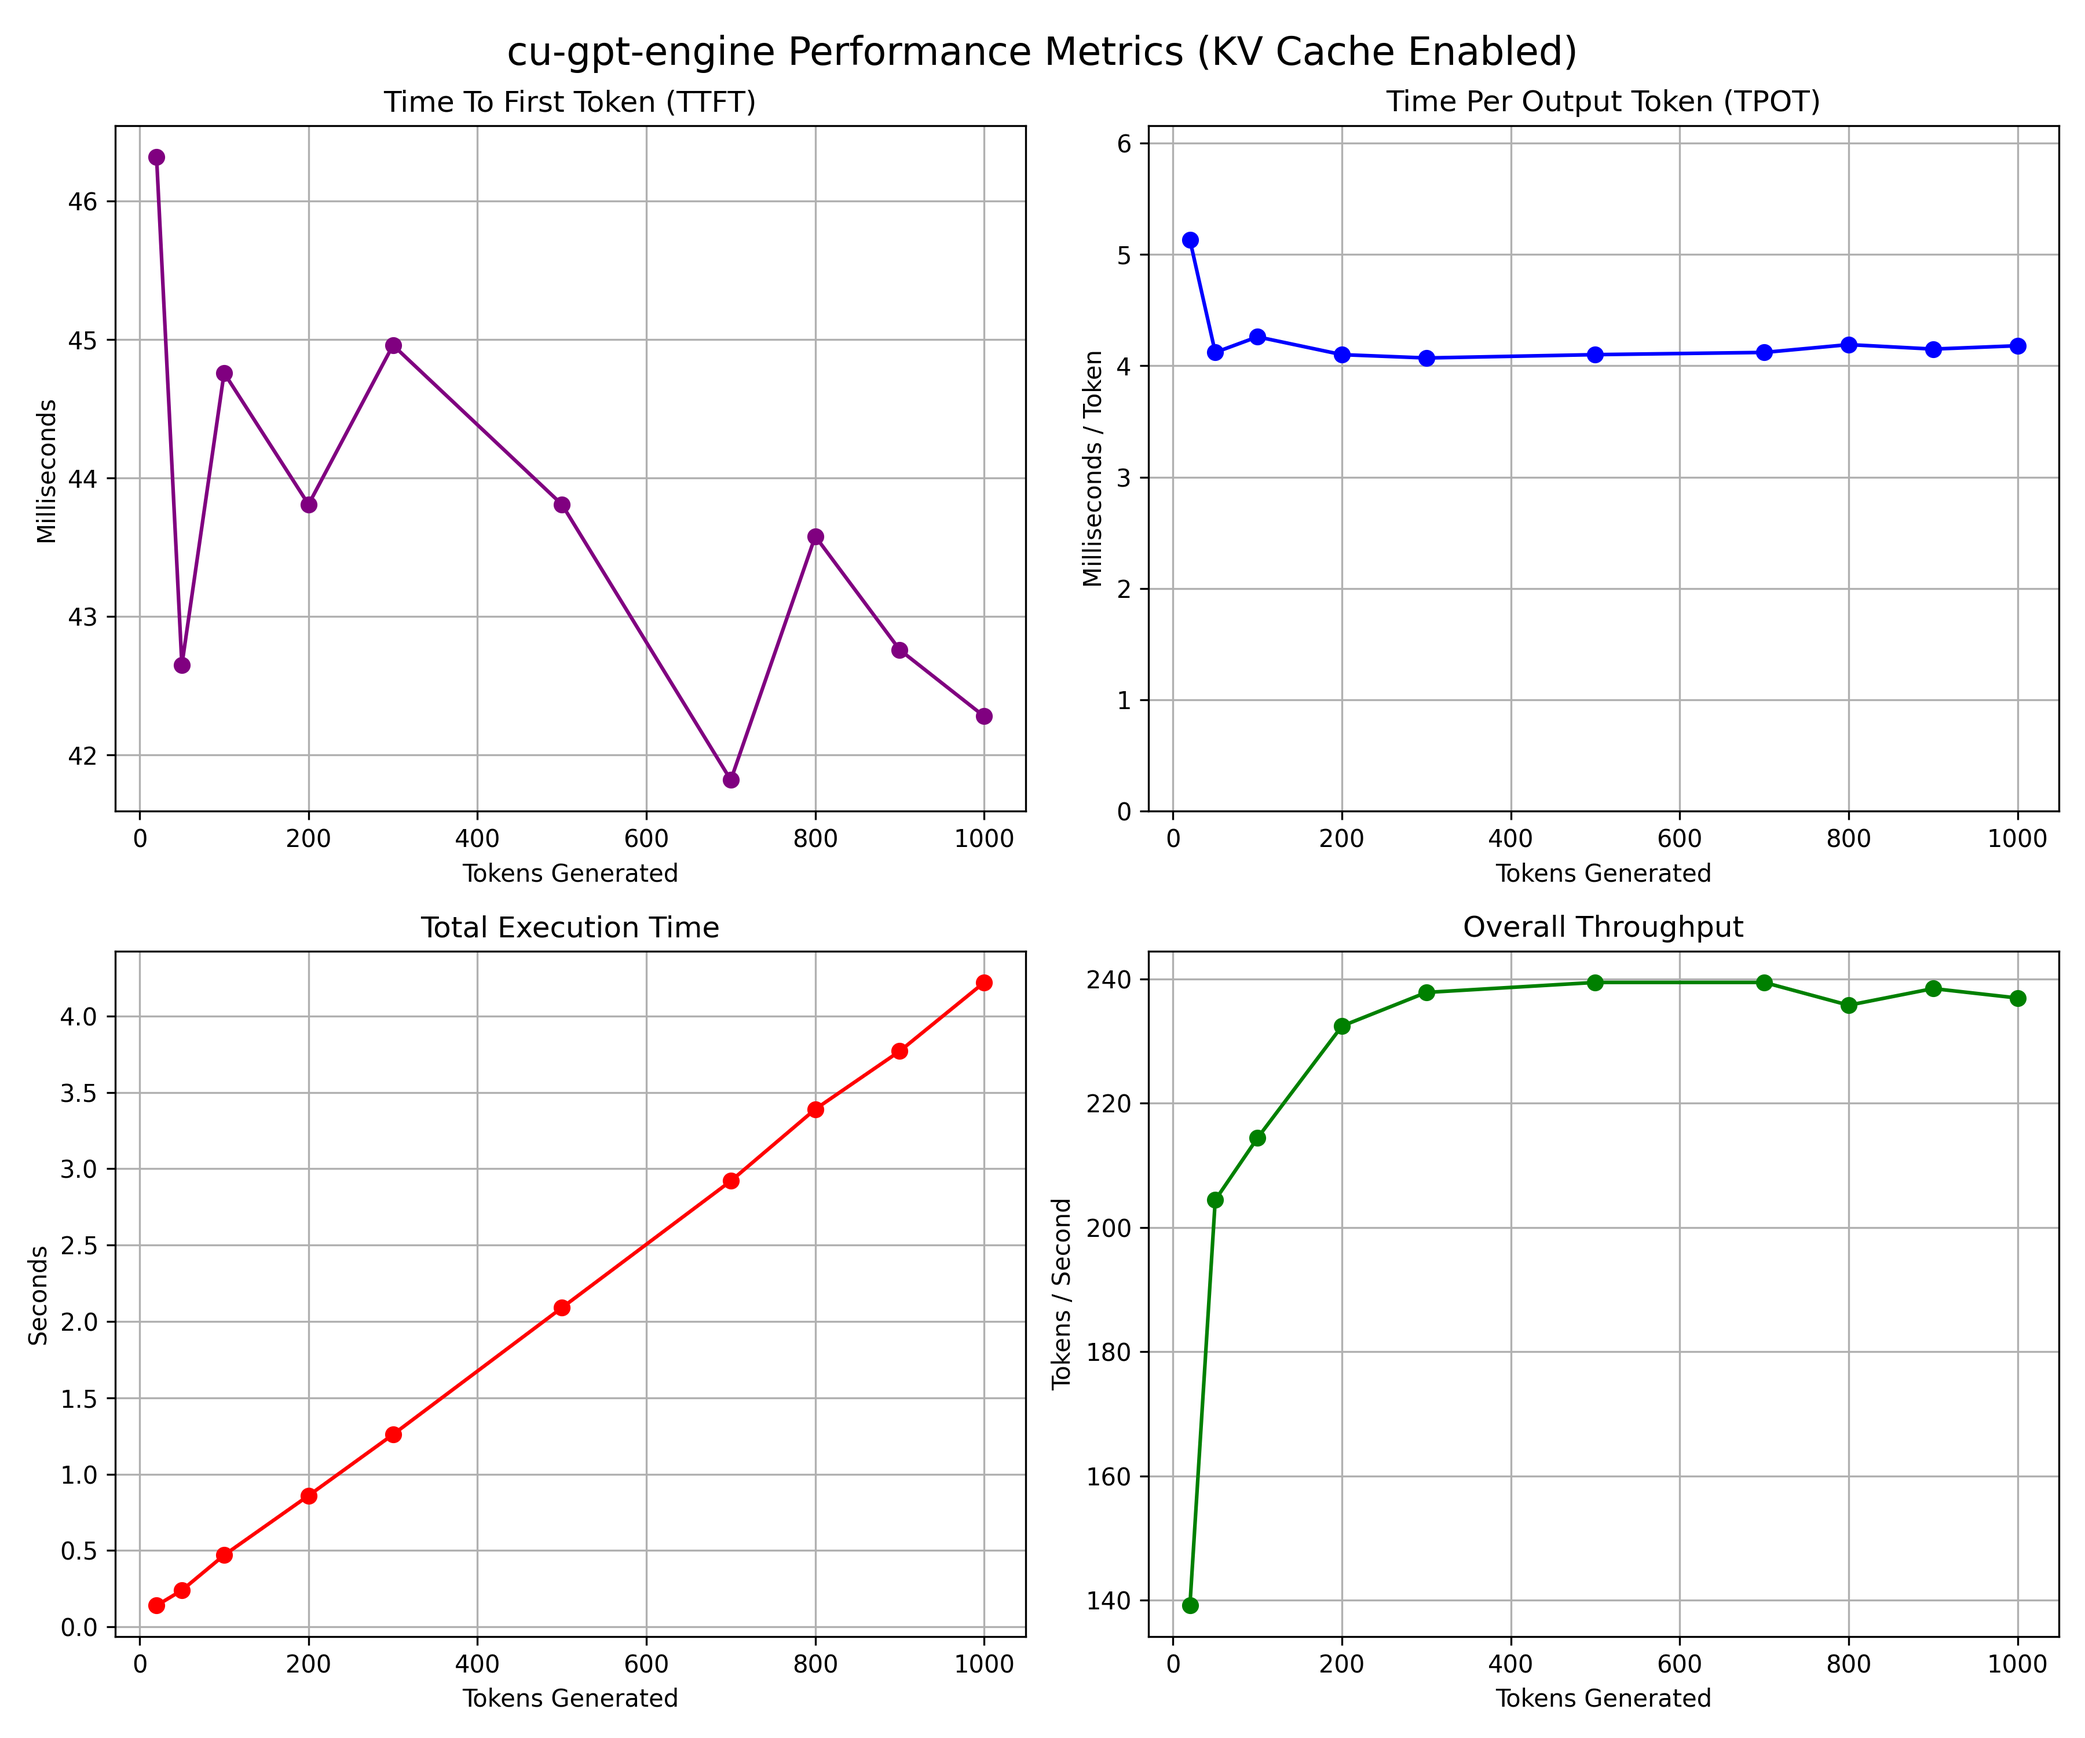
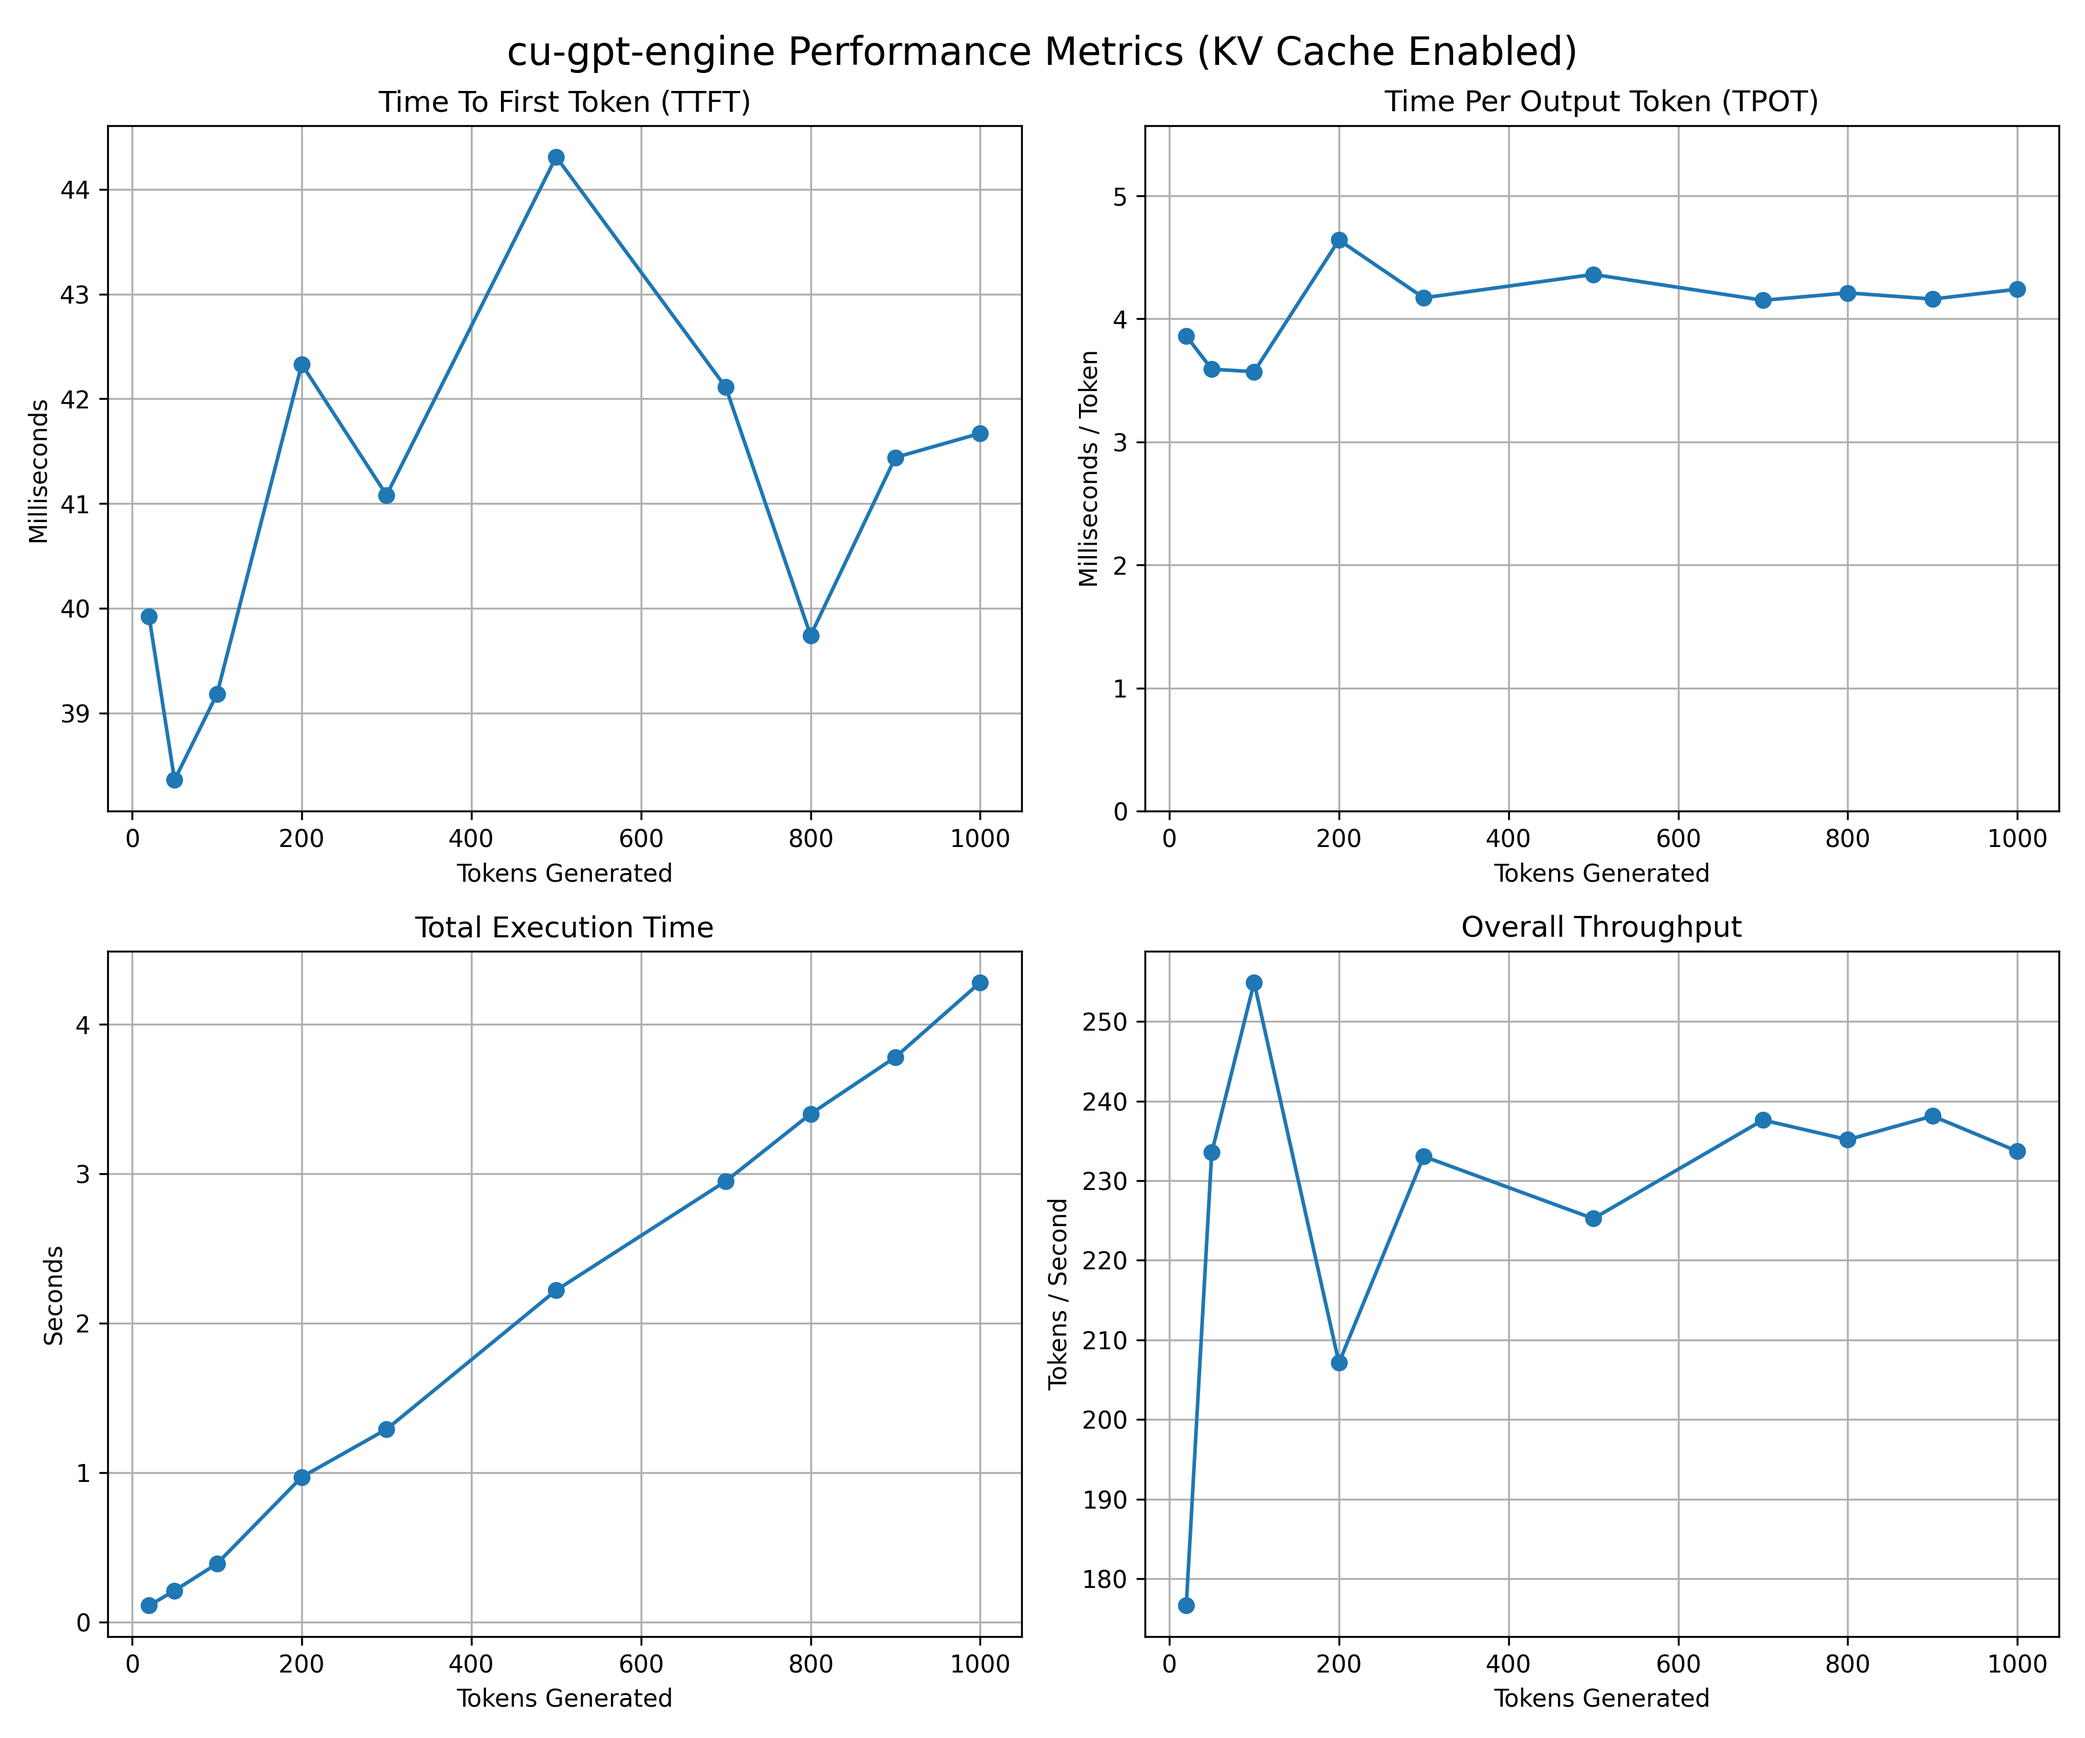
updated benchmarks for gpu

diff --git a/run_benchmarks.py b/run_benchmarks.py
@@ -2,85 +2,109 @@ import subprocess
 import re
 import pandas as pd
 import matplotlib.pyplot as plt
+from pathlib import Path
 
 # Configuration
-EXECUTABLE = "./build/benchmarks/gpu_bench" 
+EXECUTABLE = "./build/benchmarks/gpu_bench"
 TOKEN_SIZES = [20, 50, 100, 200, 300, 500, 700, 800, 900, 1000]
 
-def run_benchmark(tokens):
+# Match a markdown table data row:
+# | Tokens | TTFT | TPOT | Total | Throughput |
+ROW_RE = re.compile(
+    r"^\|\s*(\d+)\s*\|\s*([\d.]+)\s*\|\s*([\d.]+)\s*\|\s*([\d.]+)\s*\|\s*([\d.]+)\s*\|\s*$",
+    re.MULTILINE
+)
+
+def run_benchmark(tokens: int):
     print(f"Running benchmark for {tokens} tokens...")
     result = subprocess.run([EXECUTABLE, str(tokens)], capture_output=True, text=True)
+
+    # If your binary prints errors to stderr, surface them
+    if result.returncode != 0:
+        print(f"Benchmark failed for {tokens} tokens (exit {result.returncode}).\nSTDERR:\n{result.stderr}\nSTDOUT:\n{result.stdout}")
+        return None
+
     output = result.stdout
 
-    #Regex patterns to extract metrics from your C++ stdout
-    ttft_match = re.search(r"TTFT \(Prefill\):\s+([\d.]+)", output)
-    tpot_match = re.search(r"TPOT \(Decode Avg\):\s+([\d.]+)", output)
-    time_match = re.search(r"Total execution time:\s+([\d.]+)", output)
-    throughput_match = re.search(r"Overall Throughput:\s+([\d.]+)", output)
-
-    if not all([ttft_match, tpot_match, time_match, throughput_match]):
+    # Find all rows; take the last one (safest if banner repeats)
+    matches = ROW_RE.findall(output)
+    if not matches:
         print(f"Error parsing output for {tokens} tokens:\n{output}")
         return None
 
+    row = matches[-1]
+    parsed_tokens = int(row[0])
+    ttft = float(row[1])
+    tpot = float(row[2])
+    total_s = float(row[3])
+    throughput = float(row[4])
+
+    # Sanity check: token count in row should match requested tokens
+    if parsed_tokens != tokens:
+        print(f"Warning: parsed token count ({parsed_tokens}) != requested ({tokens}). Using parsed value.")
+
     return {
-        "Tokens": tokens,
-        "TTFT (ms)": float(ttft_match.group(1)),
-        "TPOT (ms/tok)": float(tpot_match.group(1)),
-        "Total Time (s)": float(time_match.group(1)),
-        "Throughput (tok/s)": float(throughput_match.group(1))
+        "Tokens": parsed_tokens,
+        "TTFT (ms)": ttft,
+        "TPOT (ms/tok)": tpot,
+        "Total Time (s)": total_s,
+        "Throughput (tok/s)": throughput
     }
 
 def main():
     results = []
-    for tokens in TOKEN_SIZES:
-        res = run_benchmark(tokens)
+    for t in TOKEN_SIZES:
+        res = run_benchmark(t)
         if res:
             results.append(res)
-    
-    #Create and Display Table
-    df = pd.DataFrame(results)
-    print("\n" + "="*50)
+
+    if not results:
+        print("No results collected. Exiting.")
+        return
+
+    df = pd.DataFrame(results).sort_values("Tokens").reset_index(drop=True)
+
+    print("\n" + "=" * 50)
     print(" BENCHMARK RESULTS TABLE")
-    print("="*50)
+    print("=" * 50)
     print(df.to_markdown(index=False))
-    
-    #Generate Graphs
+
+    # --- Graphs (kept similar to your original) ---
     fig, axes = plt.subplots(2, 2, figsize=(12, 10))
     fig.suptitle("cu-gpt-engine Performance Metrics (KV Cache Enabled)", fontsize=16)
 
-    # Top-Left: TTFT (Should be mostly flat since prompt is same size)
-    axes[0, 0].plot(df["Tokens"], df["TTFT (ms)"], marker='o', color='purple')
+    axes[0, 0].plot(df["Tokens"], df["TTFT (ms)"], marker='o')
     axes[0, 0].set_title("Time To First Token (TTFT)")
     axes[0, 0].set_xlabel("Tokens Generated")
     axes[0, 0].set_ylabel("Milliseconds")
     axes[0, 0].grid(True)
 
-    #Top-Right: TPOT (The true test of O(n) KV Cache scaling)
-    axes[0, 1].plot(df["Tokens"], df["TPOT (ms/tok)"], marker='o', color='blue')
+    axes[0, 1].plot(df["Tokens"], df["TPOT (ms/tok)"], marker='o')
     axes[0, 1].set_title("Time Per Output Token (TPOT)")
     axes[0, 1].set_xlabel("Tokens Generated")
     axes[0, 1].set_ylabel("Milliseconds / Token")
     axes[0, 1].grid(True)
-    # Set Y-axis to start at 0 to show how flat the curve is
-    axes[0, 1].set_ylim(0, df["TPOT (ms/tok)"].max() * 1.2) 
+    axes[0, 1].set_ylim(0, df["TPOT (ms/tok)"].max() * 1.2)
 
-    # Bottom-Left: Total Time
-    axes[1, 0].plot(df["Tokens"], df["Total Time (s)"], marker='o', color='red')
+    axes[1, 0].plot(df["Tokens"], df["Total Time (s)"], marker='o')
     axes[1, 0].set_title("Total Execution Time")
     axes[1, 0].set_xlabel("Tokens Generated")
     axes[1, 0].set_ylabel("Seconds")
     axes[1, 0].grid(True)
 
-    # Bottom-Right: Throughput
-    axes[1, 1].plot(df["Tokens"], df["Throughput (tok/s)"], marker='o', color='green')
+    axes[1, 1].plot(df["Tokens"], df["Throughput (tok/s)"], marker='o')
     axes[1, 1].set_title("Overall Throughput")
     axes[1, 1].set_xlabel("Tokens Generated")
     axes[1, 1].set_ylabel("Tokens / Second")
     axes[1, 1].grid(True)
 
     plt.tight_layout()
-    plt.savefig("benchmark_results.png", dpi=300)
-    print("\nGraphs saved to 'benchmark_results.png'")
+
+    out_dir = Path("./benchmarks/kv_cache_benchmarks")
+    out_dir.mkdir(parents=True, exist_ok=True)
+    out_path = out_dir / "benchmark_results.png"
+    plt.savefig(out_path, dpi=300)
+    print(f"\nGraphs saved to '{out_path}'")
 
 if __name__ == "__main__":
     main()
